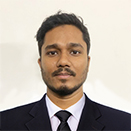
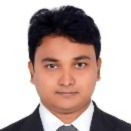
Course Instructors

diff --git a/resources/views/courses/show.blade.php b/resources/views/courses/show.blade.php
@@ -89,8 +89,9 @@
                             <a
                                 class="play video-popup"
                                 href="{{ $course->intro_video }}"
-                                ><i class="flaticon-play"></i
-                            ></a>
+                            >
+                                <i class="flaticon-play"></i>
+                            </a>
                         </div>
                         @endif
                     </div>
@@ -101,19 +102,38 @@
 
                     <div class="courses-details-admin">
                         <div class="admin-author">
+                            @foreach ($course->instructors as $instructor)
+                            @if($instructor->name)
                             <div class="author-thumb">
+                                @if($instructor->avatar)
                                 <img
-                                    src="{{ asset('assets/images/author/author-01.jpg') }}"
+                                    src="{{ asset($instructor->avatar) }}"
                                     alt="Author"
                                 />
+                                @else
+                                <div 
+                                    class="border rounded-circle d-flex justify-content-center align-items-center"
+                                    style="width: 50px; height: 50px; font-size: 24px; background: #dee2e6"
+                                >
+                                    {{ $instructor->name[0] }}
+                                </div>
+                                @endif
                             </div>
+                            @break
+                            @endif
+                            @endforeach
                             <div class="author-content">
-                                <a class="name" href="#"
-                                    >Pamela Foster</a
-                                >
-                                <span class="Enroll"
-                                    >286 Enrolled Students</span
-                                >
+                                @foreach ($course->instructors as $instructor)
+                                @if($instructor->name)
+                                <a class="name" href="#">
+                                    {{ $instructor->name }}
+                                </a>
+                                @break
+                                @endif
+                                @endforeach
+                                <span class="Enroll">
+                                    286 Enrolled Students
+                                </span>
                             </div>
                         </div>
                         <div class="admin-rating">
@@ -121,12 +141,12 @@
                             <span class="rating-star">
                                 <span
                                     class="rating-bar"
-                                    style="width: 80%"
+                                    style="width: 60%"
                                 ></span>
                             </span>
-                            <span class="rating-text"
-                                >(5,764 Rating)</span
-                            >
+                            <span class="rating-text">
+                                (5,764 Rating)
+                            </span>
                         </div>
                     </div>
 
@@ -153,6 +173,7 @@
                                         Description
                                     </button>
                                 </li>
+                                @if($course->instructors_count)
                                 <li>
                                     <button
                                         data-bs-toggle="tab"
@@ -161,6 +182,7 @@
                                         Instructors
                                     </button>
                                 </li>
+                                @endif
                                 <li>
                                     <button
                                         data-bs-toggle="tab"
@@ -404,6 +426,7 @@
                                     </div>
                                     <!-- Tab Description End -->
                                 </div>
+                                @if($course->instructors_count)
                                 <div
                                     class="tab-pane fade"
                                     id="instructors"
@@ -415,6 +438,7 @@
                                         </h3>
 
                                         <div class="row">
+                                            @foreach ($course->instructors as $instructor)
                                             <div
                                                 class="col-md-3 col-6"
                                             >
@@ -425,10 +449,12 @@
                                                     <div
                                                         class="team-thumb"
                                                     >
+                                                        @if($instructor->avatar)
                                                         <img
-                                                            src="{{ asset('assets/images/author/author-01.jpg') }}"
+                                                            src="{{ asset($instructor->avatar) }}"
                                                             alt="Author"
                                                         />
+                                                        @endif
                                                     </div>
                                                     <div
                                                         class="team-content"
@@ -436,34 +462,24 @@
                                                         <div
                                                             class="rating"
                                                         >
-                                                            <span
-                                                                class="count"
-                                                                >4.9</span
-                                                            >
-                                                            <i
-                                                                class="icofont-star"
-                                                            ></i>
-                                                            <span
-                                                                class="text"
-                                                                >(rating)</span
-                                                            >
+                                                            <span class="count">4.9</span>
+                                                            <i class="icofont-star"></i>
+                                                            <span class="text">(rating)</span>
                                                         </div>
                                                         <h4
                                                             class="name"
                                                         >
-                                                            Margarita
-                                                            James
+                                                            {{ $instructor->name }}
                                                         </h4>
-                                                        <span
-                                                            class="designation"
-                                                            >MSC,
-                                                            Instructor</span
-                                                        >
+                                                        <span class="designation">
+                                                            {{ $instructor->designation }}
+                                                        </span>
                                                     </div>
                                                 </div>
                                                 <!-- Single Team End -->
                                             </div>
-                                            <div
+                                            @endforeach
+                                            {{-- <div
                                                 class="col-md-3 col-6"
                                             >
                                                 <!-- Single Team Start -->
@@ -606,7 +622,7 @@
                                                     </div>
                                                 </div>
                                                 <!-- Single Team End -->
-                                            </div>
+                                            </div> --}}
                                         </div>
 
                                         <div class="row gx-10">
@@ -817,6 +833,7 @@
                                     </div>
                                     <!-- Tab Instructors End -->
                                 </div>
+                                @endif
                                 <div
                                     class="tab-pane fade"
                                     id="reviews"
@@ -1287,13 +1304,16 @@
                         </div>
                         <div class="info-list">
                             <ul>
-                                @if($course->lectures_count)
+                                @foreach ($course->instructors as $instructor)
+                                @if($instructor->name)
                                 <li>
                                     <i class="icofont-man-in-glasses"></i>
                                     <strong>Instructor</strong>
-                                    <span>Pamela Foster</span>
+                                    <span>{{ $instructor->name }}</span>
                                 </li>
+                                @break
                                 @endif
+                                @endforeach
                                 @if($course->lectures_count)
                                 <li>
                                     <i class="icofont-ui-video-play"></i>

diff --git a/database/migrations/2022_08_31_075646_create_course_instructor_table.php b/database/migrations/2022_08_31_075646_create_course_instructor_table.php
@@ -17,7 +17,7 @@ class CreateCourseInstructorTable extends Migration
             $table->id();
             $table->unsignedBigInteger('course_id');
             $table->unsignedBigInteger('instructor_id');
-            $table->timestamps();
+            // $table->timestamps();
             $table->softDeletes();
 
             $table->index(['course_id', 'instructor_id']);

diff --git a/app/Http/Controllers/CourseController.php b/app/Http/Controllers/CourseController.php
@@ -25,9 +25,11 @@ class CourseController extends Controller
             return abort(404);
         }
 
-        $course->load([
-            'category',
-        ]);
+        $course->loadCount('instructors')
+            ->load([
+                'category',
+                'instructors',
+            ]);
 
         return view('courses.show', compact('course'));
     }

diff --git a/app/Models/Course.php b/app/Models/Course.php
@@ -30,6 +30,7 @@ class Course extends Model
 
     public function instructors()
     {
-        return $this->belongsToMany(Instructor::class);
+        return $this->belongsToMany(Instructor::class)
+            ->wherePivotNull('deleted_at');
     }
 }

diff --git a/app/Models/Instructor.php b/app/Models/Instructor.php
@@ -16,6 +16,7 @@ class Instructor extends Model
 
     public function courses()
     {
-        return $this->belongsToMany(Course::class);
+        return $this->belongsToMany(Course::class)
+            ->wherePivotNull('deleted_at');
     }
 }
